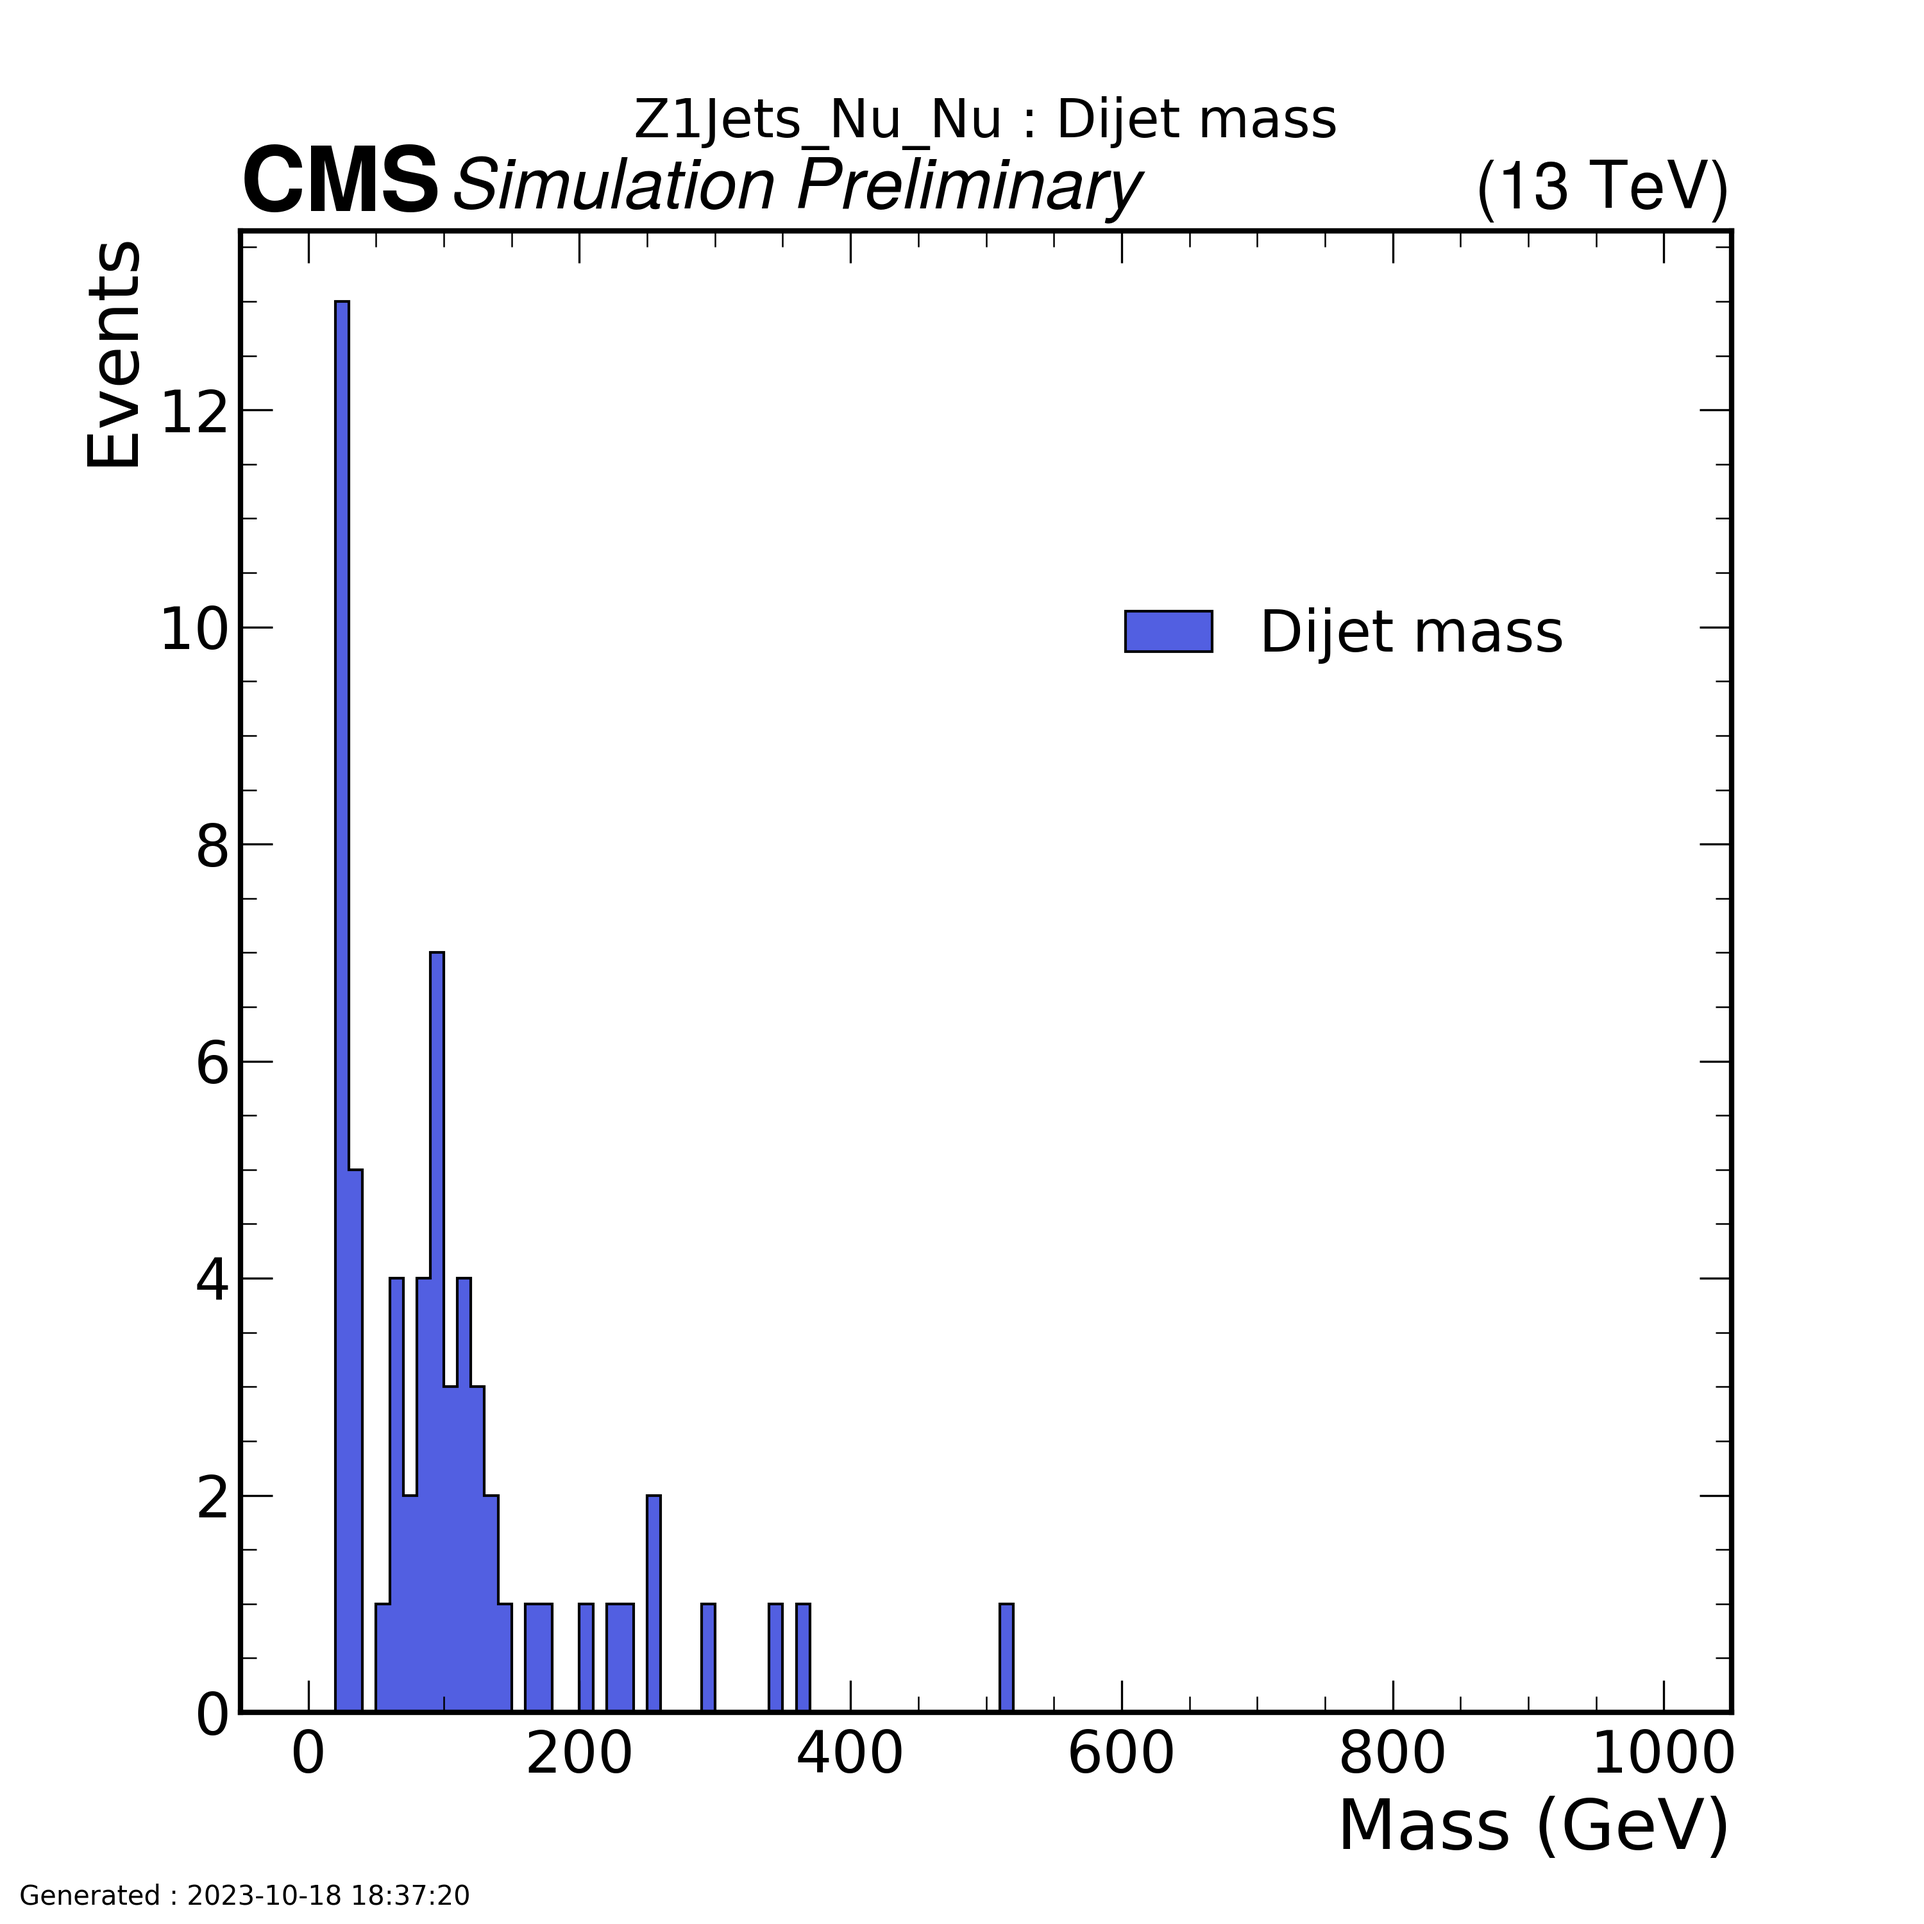
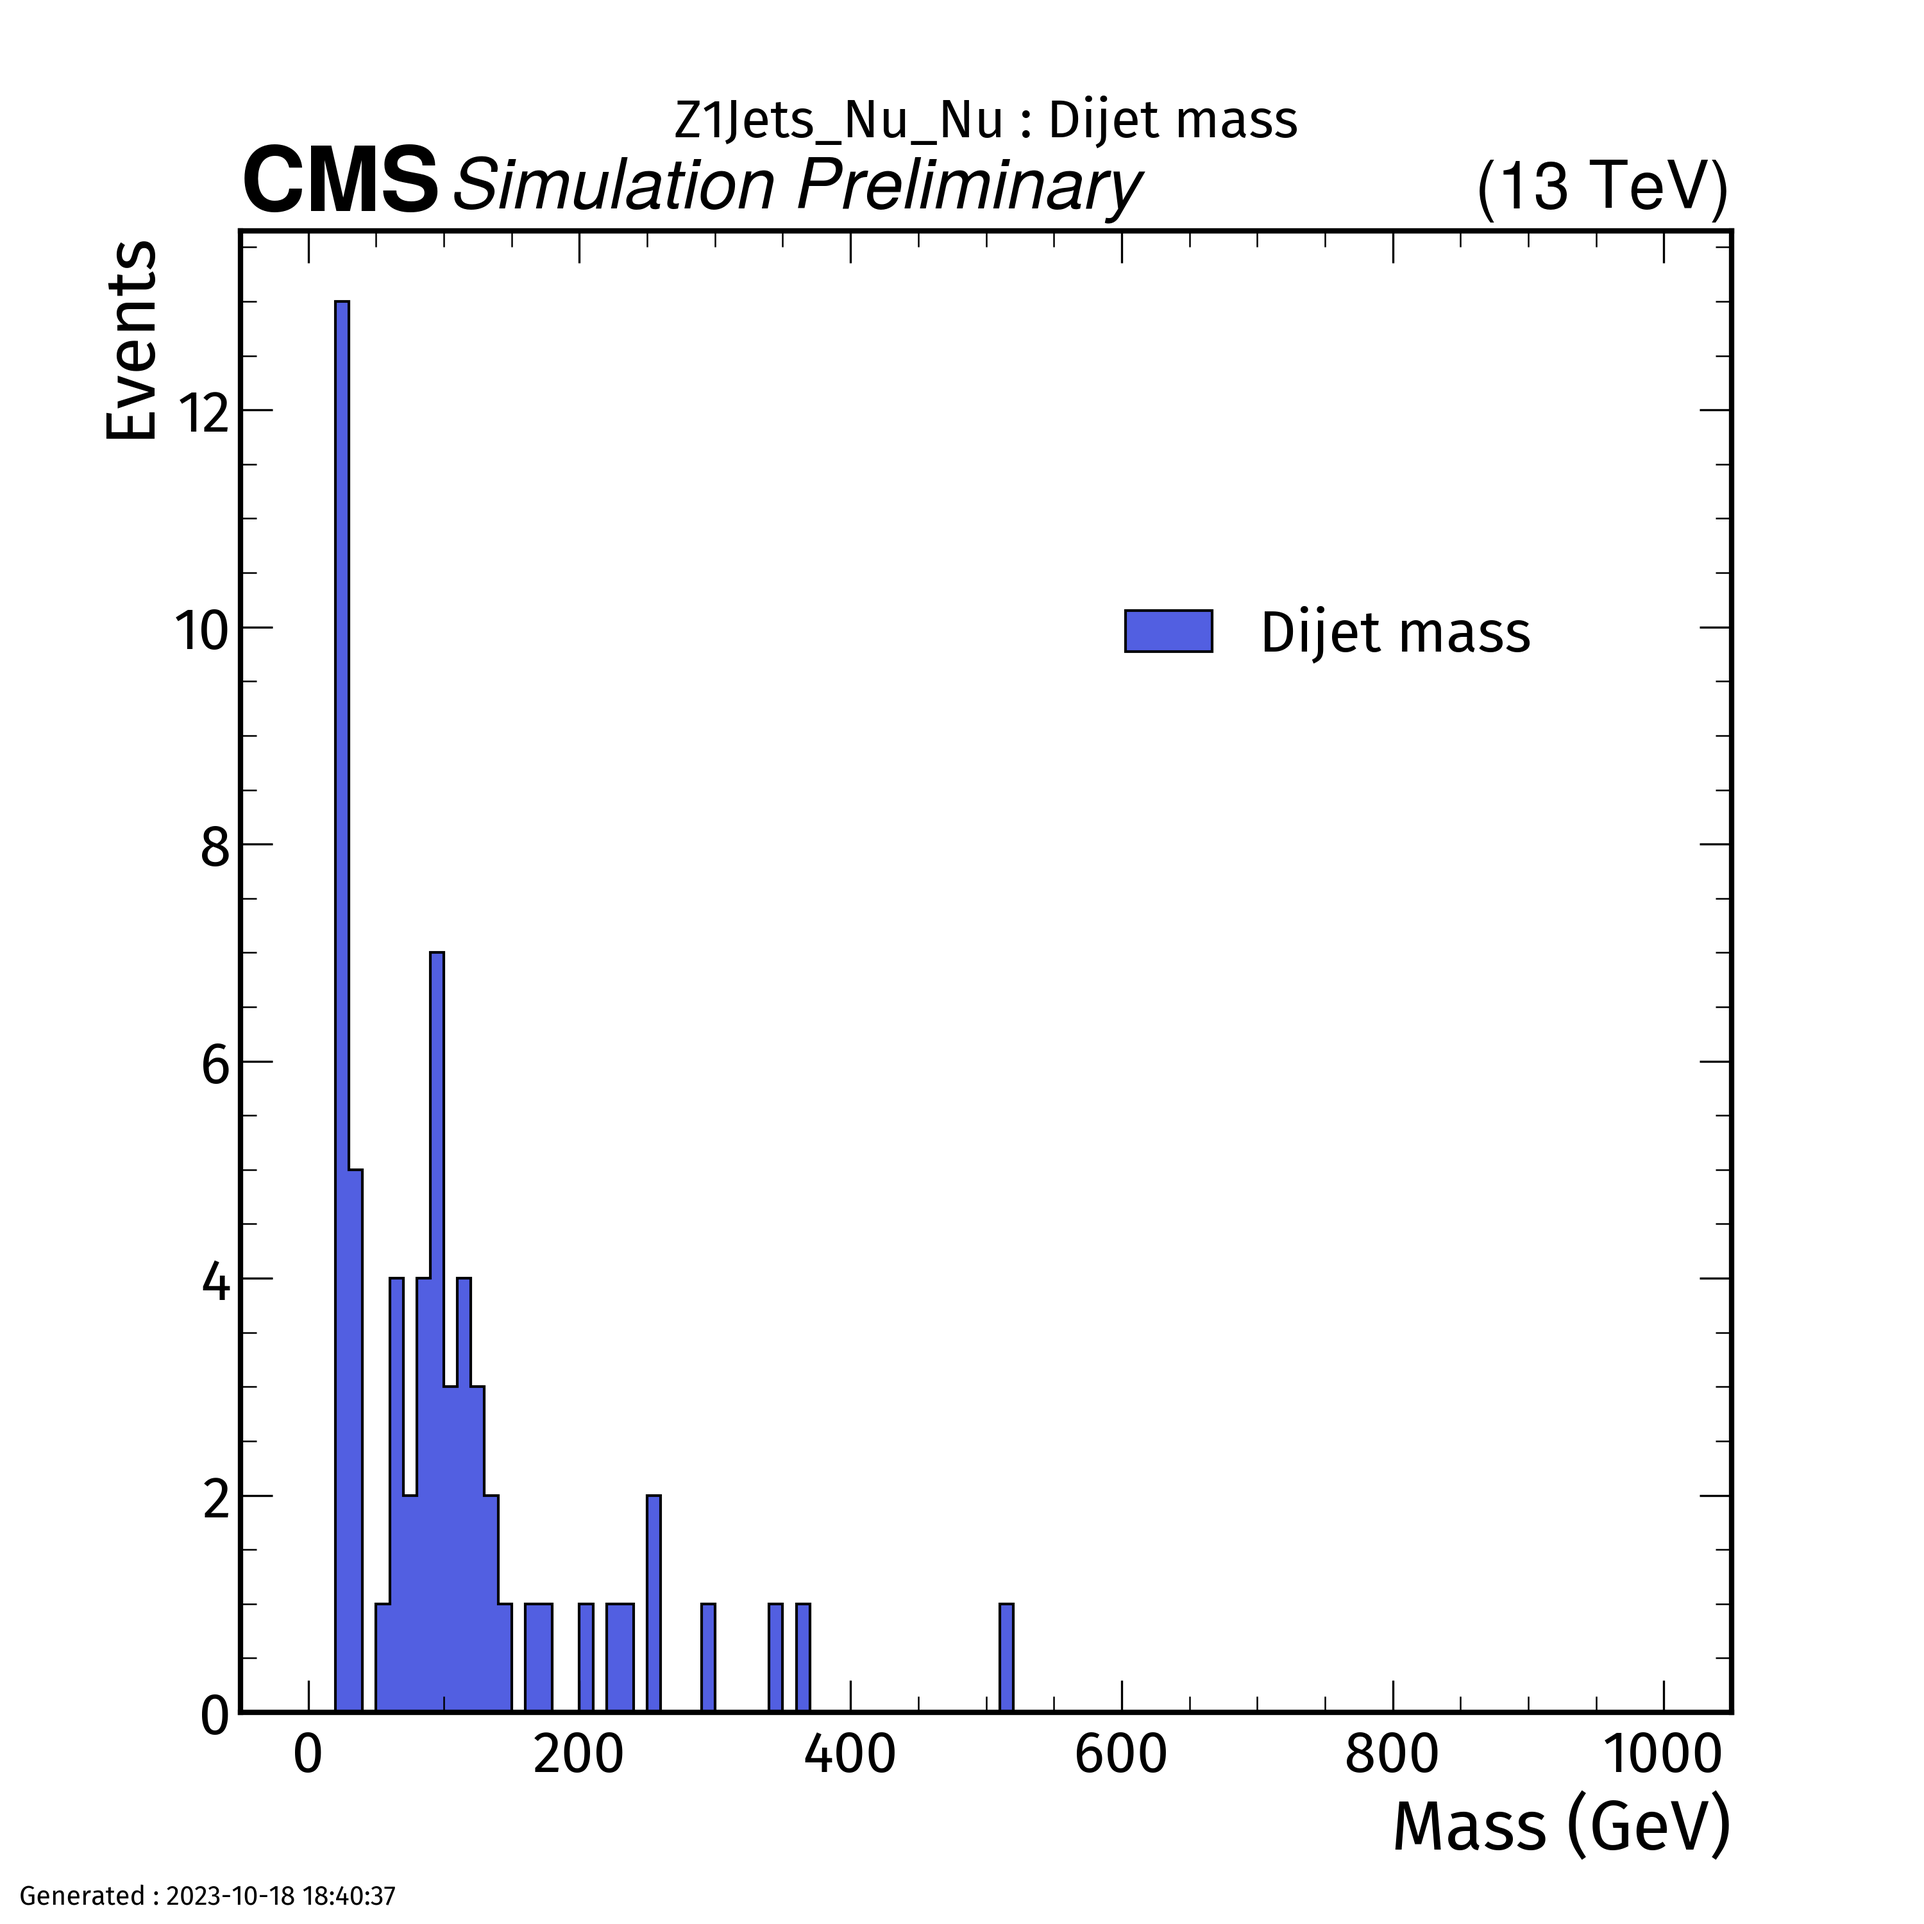
Automated Commit

diff --git a/Backgrounds/plotter_Zjetsnunu.py b/Backgrounds/plotter_Zjetsnunu.py
@@ -18,7 +18,7 @@ from monoHbbtools.Utilities import get_timestamp
 import numpy as np
 import os
 #plt.style.use(hep.style.CMS)
-hep.style.use(["CMS","fabiola","firamath"])
+hep.style.use(["CMS","fira","firamath"])
 #hep.style.use("CMSTex")
 import rich
 
